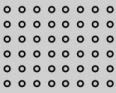
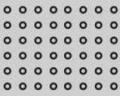
upd

diff --git a/index.html b/index.html
@@ -80,7 +80,6 @@
           <tr>
             <td class="image-cell">
               <img
-                class="img-perf-w"
                 src="./img/perf-2.jpg"
                 alt="Стандартна перфорація"
               />

diff --git a/style.css b/style.css
@@ -56,9 +56,6 @@ th {
   width: 100%;
   height: 100%;
 }
-.img-perf-w {
-  margin-left: 4px;
-}
 .description li {
   margin-bottom: 10px;
   color: black;
